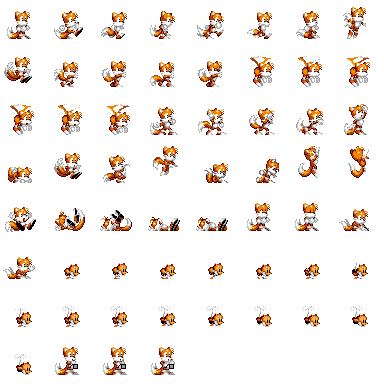
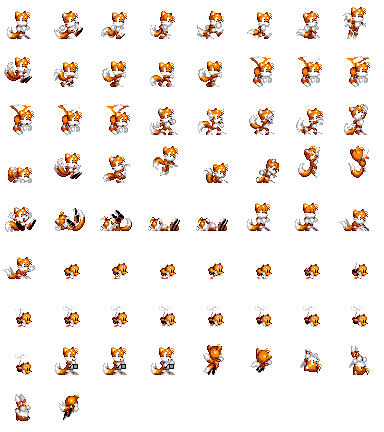
Fall animation

diff --git a/src/character.cpp b/src/character.cpp
@@ -146,11 +146,16 @@ void TA_Character::updateAnimation()
                 setAnimation("helitail");
             }
         }
-        else if(velocity.y < 0) {
-            setAnimation("jump_up");
+        else if(jump) {
+            if(velocity.y < 0) {
+                setAnimation("jump_up");
+            }
+            else {
+                setAnimation("jump_down");
+            }
         }
-        else { // TODO: fall animation
-            setAnimation("jump_down");
+        else {
+            setAnimation("fall");
         }
     }
 }
@@ -188,7 +193,7 @@ void TA_Character::updateTool()
             if(helitail) {
                 spawnBomb(position + TA_Point((flip ? 15 : 21), 32), flip, TA_BOMB_MODE_HELITAIL);
             }
-            else if(!ground) { // TODO: throw bomb in the air animation
+            else if(jump) { // TODO: throw bomb in the air animation
                 spawnBomb(position + TA_Point((flip ? 25 : 10), 8), flip, TA_BOMB_MODE_AIR);
             }
             else if(crouch) {
@@ -196,7 +201,7 @@ void TA_Character::updateTool()
                 setAnimation("throw_crouch");
                 state = STATE_THROW_BOMB;
             }
-            else {
+            else if(ground) {
                 spawnBomb(position + TA_Point((flip ? 27 : 8), 12), flip, TA_BOMB_MODE_DEFAULT);
                 setAnimation("throw");
                 state = STATE_THROW_BOMB;
